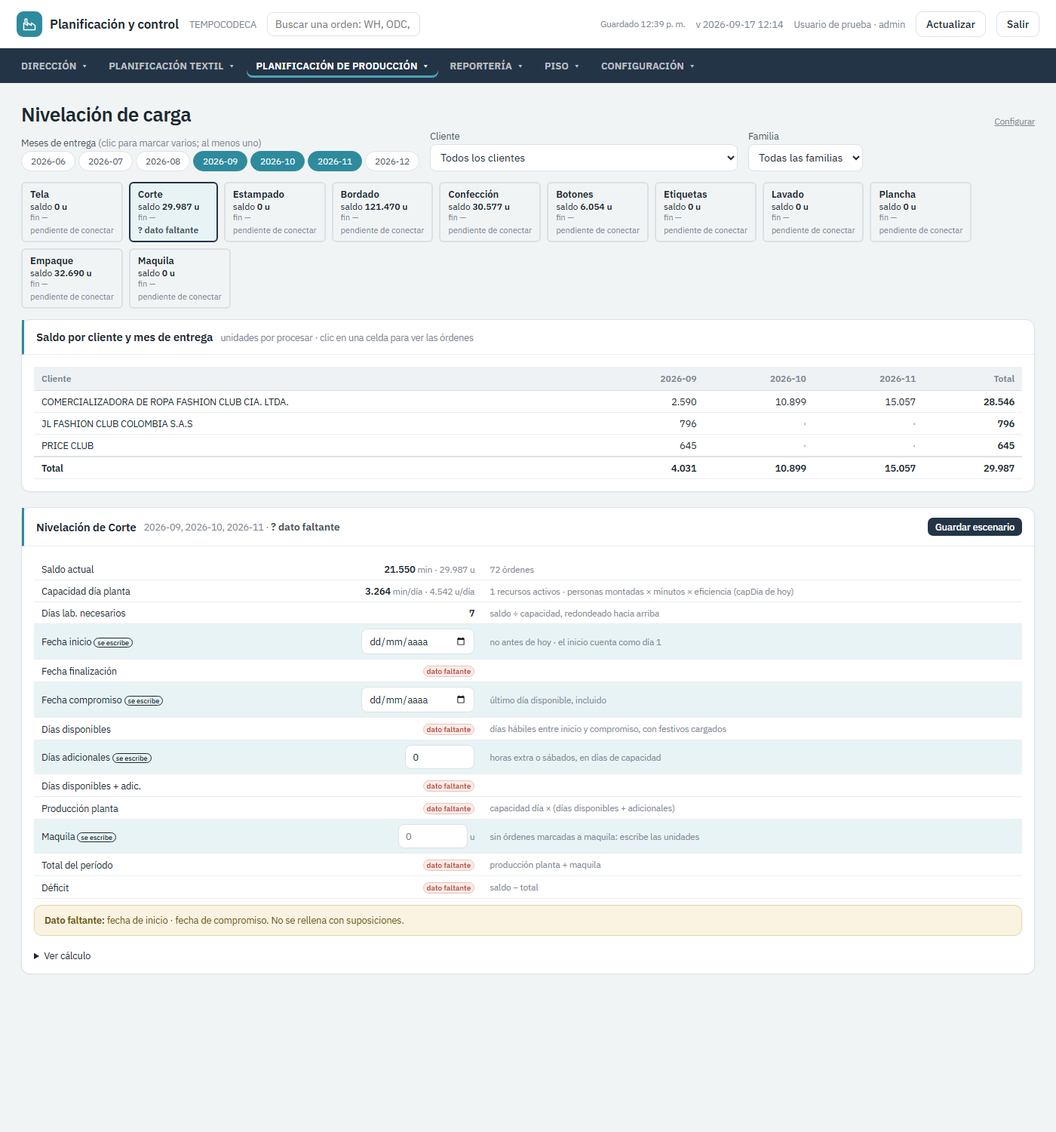
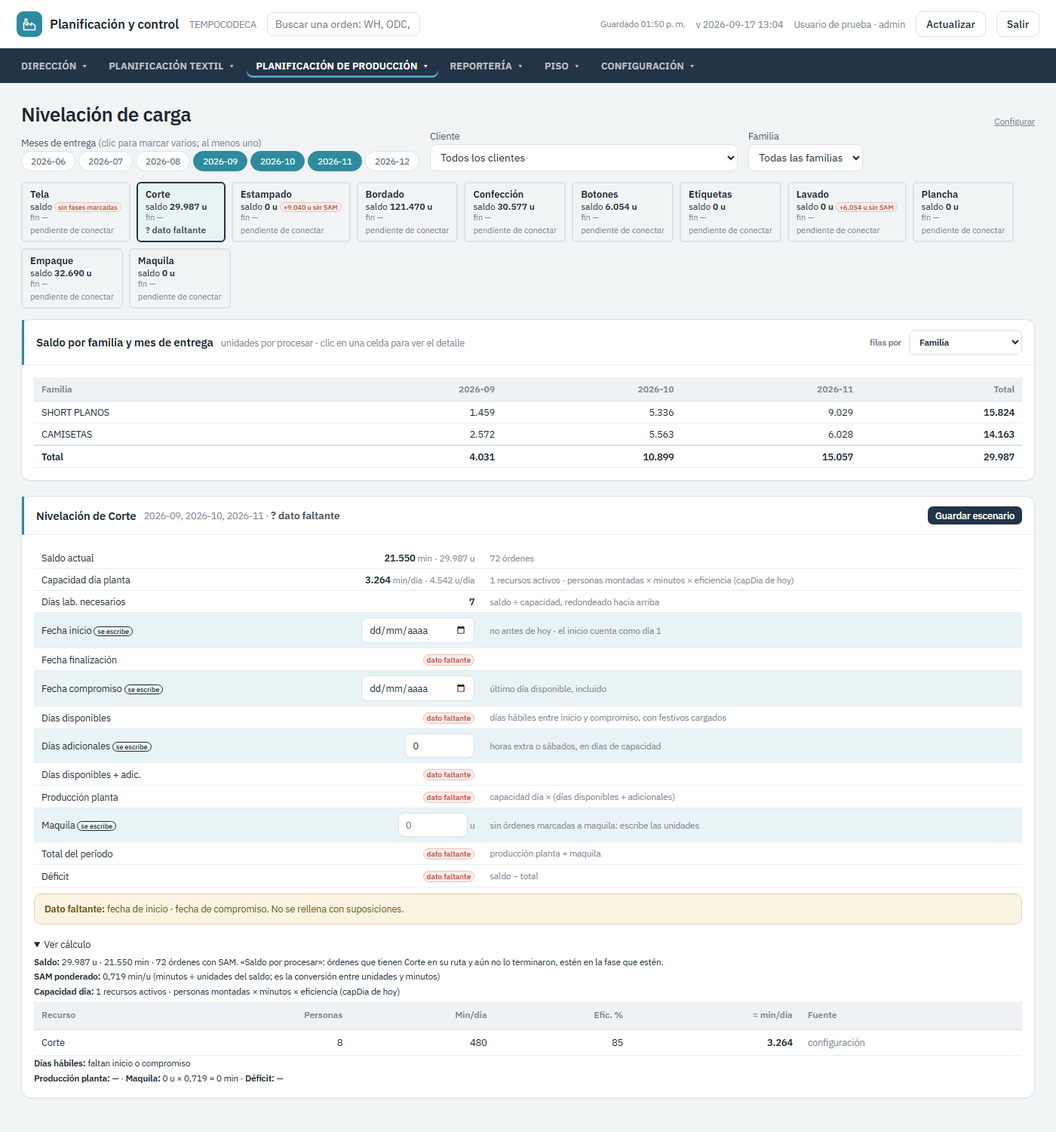
Nivelación · las WH salen de la pantalla: detalle hasta tipo de producto + «ver órdenes» a Carga general (Saldo por procesar en <área>)
saldoAreaNiv(area,meses,filtro) es la única fuente para la nivelación y para el detalle nuevo de Carga general
(CG.det.saldo), así el número de órdenes y unidades coincide exacto con la fila desde la que se llegó (prueba).
Encabezado con la selección aplicada y «← volver a la nivelación» (regresa con área, meses, filtros y celda);
aclara que es saldo por procesar, distinto del detalle por semana programada. «Qué no entra» resumido por familia y
tipo con «ver órdenes» (las órdenes exactas viajan por id). Tela y Maquila por el mismo bloque. Prueba: ninguna WH
en la pantalla de nivelación. Recuadros: «sin fases marcadas» (Tela) y «+N u sin SAM». Harness 2.343 checks, 0 errores.

diff --git a/index.html b/index.html
@@ -706,7 +706,7 @@ async function _save(){
 }
 
 /* ---------- versión cargada vs publicada: nunca mirar números de una copia vieja sin saberlo ---------- */
-const APP_BUILD='2026-09-17 13:04';
+const APP_BUILD='2026-09-17 13:52';
 function verBotonesAdmin(){const ok=puede('config');['btn-respaldo','btn-restaurar'].forEach(id=>{const b=document.getElementById(id);if(b)b.style.display=ok?'':'none'})}
 function verVersion(){const e=document.getElementById('version');if(e)e.textContent='v '+APP_BUILD}
 async function revisarVersion(){try{const r=await fetch(location.pathname+'?nocache='+Date.now(),{cache:'no-store'});if(!r.ok)return;const t=await r.text();const m=t.match(/APP_BUILD=\x27([^\x27]+)\x27/);if(!m)return;
@@ -6067,11 +6067,25 @@ function nivUIFiltro(){const cli=NIVUI.cliente,fam=NIVUI.familia;if(!cli&&!fam)r
   return o=>(!cli||String(o.cliente||'')===cli)&&(!fam||famDeOrden(o)===fam)}
 function nivUIOpciones(k){const set=new Set();S.ordenes.filter(abiertaDe).forEach(o=>set.add(k==='cliente'?String(o.cliente||'(sin cliente)'):famDeOrden(o)));return [...set].sort((a,b)=>a.localeCompare(b,'es'))}
 /* --- el saldo de un área: el MISMO saldoProceso del Paso 1 (con filtro); maquila = lo marcado a maquila --- */
-function nivUISaldo(areaId,meses){const f=nivUIFiltro();const a=nivUIArea(areaId);if(!a)return null;
+/* el saldo de un área con un filtro cualquiera: la nivelación (con sus filtros de pantalla) y Carga general (con la
+   selección que llega por «ver órdenes») llaman EXACTAMENTE a esta función, así que listan lo mismo que se sumó */
+function saldoAreaNiv(areaId,meses,f){const a=nivUIArea(areaId);if(!a)return null;
   if(a.tipo==='maquila'){const s=saldoProceso('modulos',meses,f);if(!s)return null;
     const ords=S.ordenes.filter(o=>abiertaDe(o)&&(!f||f(o))&&(!meses||!meses.length||meses.includes(mesEntregaNiv(o)))&&((o.recursoFijo||{}).modulos==='maquila')&&(o.ruta||[]).some(x=>x.centro==='modulos')&&!pasoHecho(o,'modulos'));
     return {proc:'maquila',ordenes:ords,unid:s.maquila,min:s.minMaquila,sinSAM:[],unidSinSAM:0,maquila:0,minMaquila:0}}
   return saldoProceso(areaId,meses,f)}
+function nivUISaldo(areaId,meses){return saldoAreaNiv(areaId,meses,nivUIFiltro())}
+/* el filtro que arma una selección (cliente, familia, tipo de producto) — el mismo para las dos pantallas */
+function filtroSelNiv(sel){sel=sel||{};const cli=sel.cli||'',fam=sel.fam||'',hija=sel.hija||'';if(!cli&&!fam&&!hija)return null;
+  return o=>(!cli||String(o.cliente||'(sin cliente)')===cli)&&(!fam||famDeOrden(o)===fam)&&(!hija||nivUIClaveFila(o,'hija')===hija)}
+/* «ver órdenes»: la nivelación no lista WH; manda la selección a Carga general y deja el camino de vuelta */
+function irSaldoCentro(sel){sel=sel||{};const a=nivUIArea(sel.area);if(!a)return;
+  const volver={meses:nivUIMeses().slice(),cliente:NIVUI.cliente,familia:NIVUI.familia,area:NIVUI.area,filaPor:NIVUI.filaPor,celda:NIVUI.celda?Object.assign({},NIVUI.celda):null,noEntra:!!NIVUI.noEntra};
+  CG.area='pro';CG.centro=(a.tipo==='centro')?a.id:'';CG.sem=null;
+  CG.det={saldo:true,area:a.id,meses:(sel.meses||[]).slice(),fam:sel.fam||'',hija:sel.hija||'',cli:sel.cli||'',ids:sel.ids||null,txt:sel.txt||'',volver};
+  ir('produccion');setTimeout(()=>{const e=document.getElementById('cg-saldo');if(e&&e.scrollIntoView)e.scrollIntoView({block:'start'})},0)}
+function nivUIVolver(){const v=CG.det&&CG.det.volver;if(v){NIVUI.meses=v.meses;NIVUI.cliente=v.cliente;NIVUI.familia=v.familia;NIVUI.area=v.area;NIVUI.filaPor=v.filaPor;NIVUI.celda=v.celda;NIVUI.noEntra=v.noEntra}
+  CG.det=null;ir('nivelacion')}
 /* --- capacidad diaria del área, con el detalle que la produce (personas, minutos, eficiencia) --- */
 function nivUICapacidad(areaId){const a=nivUIArea(areaId);if(!a)return {cap:null,detalle:[],nota:'área desconocida'};
   if(a.tipo==='tela'){const t=capTelaReal();const plan=nivParam('telaPlan','');const cap=(plan===''||plan==null)?(t.suficiente?t.prom:null):+plan;
@@ -6109,9 +6123,11 @@ function nivUICalcular(areaId){const a=nivUIArea(areaId);if(!a)return null;const
   const total=(planta==null)?null:planta+(maqMin==null?0:maqMin);
   const deficit=(saldo==null||total==null)?null:Math.max(0,saldo-total);
   const sobra=(saldo==null||total==null)?null:Math.max(0,total-saldo);
-  const estado=(deficit==null)?'faltante':(deficit>0?'deficit':((c.holgura!=null&&c.holgura<=prm('colchonDias',3))?'riesgo':'ok'));
+  const sinFases=a.tipo==='tela'&&!fasesDeProcNivel('tela').length;
+  const estado=(deficit==null||sinFases)?'faltante':(deficit>0?'deficit':((c.holgura!=null&&c.holgura<=prm('colchonDias',3))?'riesgo':'ok'));
   return {area:a,meses,saldo:s,sam,enMin,cap,esc:e,calc:c,adic,diasTot,plantaMin:planta,maqU,maqMin,totalMin:total,deficitMin:deficit,sobraMin:sobra,estado,
-    falta:c.falta.slice().concat(sam==null&&enMin&&s&&s.unid>0?['SAM ponderado (saldo sin minutos)']:[])}}
+    falta:c.falta.slice().concat(sam==null&&enMin&&s&&s.unid>0?['SAM ponderado (saldo sin minutos)']:[]).concat(a.tipo==='tela'&&!fasesDeProcNivel('tela').length?['fases de Tela en la tabla 1 (columna «nivelación» vacía: el saldo de tela no se puede contar)']:[]),
+    sinFasesTela:a.tipo==='tela'&&!fasesDeProcNivel('tela').length}}
 /* --- lo que NO entra: las órdenes que quedan fuera del total del período, de la más lejana a la más cercana --- */
 function nivUINoEntra(r){if(!r||r.deficitMin==null||r.deficitMin<=0||!r.saldo)return [];
   const c=r.area.tipo==='centro'?r.area.id:'modulos';
@@ -6140,7 +6156,7 @@ function nivUIFiltrosHTML(){const sel=(k,lab)=>`<div><label>${lab}</label><selec
   return sel('cliente','Cliente')+sel('familia','Familia')}
 function nivUIRecuadrosHTML(){const meses=nivUIMeses();
   return `<div style="display:flex;flex-wrap:wrap;gap:8px;margin:10px 0 14px">${nivUIAreas().map(a=>{const r=nivUICalcular(a.id);const on=NIVUI.area===a.id;
-    const saldo=r&&r.saldo?(r.enMin?num(aUnid(r.saldo.min,r.sam)||0,0)+' u':num(r.saldo.unid,0)+' u'):'—';
+    const saldo=r&&r.saldo?((r.sinFasesTela)?'<span class="tag t-alerta" style="font-size:9px;padding:0 4px">sin fases marcadas</span>':(r.enMin?num(aUnid(r.saldo.min,r.sam)||0,0)+' u':num(r.saldo.unid,0)+' u')+(r.saldo.sinSAM&&r.saldo.sinSAM.length?' <span class="tag t-alerta" style="font-size:9px;padding:0 4px" title="'+r.saldo.sinSAM.length+' órdenes sin SAM no suman">+'+num(r.saldo.unidSinSAM,0)+' u sin SAM</span>':'')):'—';
     const fin=(NIVUI_CONECTADAS.includes(a.id)&&r&&r.calc.fin)?fmtDia(r.calc.fin):'—';
     return `<div onclick="NIVUI.area='${a.id}';NIVUI.celda=null;NIVUI.noEntra=false;render()" style="cursor:pointer;border:2px solid ${on?'var(--t-primary,var(--ink))':'var(--rule)'};border-radius:6px;padding:6px 10px;min-width:118px;background:${on?'var(--t-accent-soft,var(--field))':'var(--card)'}">
       <div style="font-weight:600;font-size:13px">${esc(a.n)}</div>
@@ -6165,16 +6181,17 @@ function nivUITablaHTML(r){if(!r||!r.saldo)return '';const meses=r.meses;const u
    ${filas.map(f=>`<tr><td>${esc(f)}</td>${meses.map(mes=>celda(f,mes,m[f][mes]||0)).join('')}<td class="num"><b>${num(meses.reduce((x,mes)=>x+(m[f][mes]||0),0),0)}</b></td></tr>`).join('')||'<tr><td colspan="99" class="mut">Sin saldo con estos meses y filtros.</td></tr>'}
    ${filas.length?`<tr style="border-top:2px solid var(--rule);font-weight:600"><td>Total</td>${meses.map(mes=>`<td class="num">${num(tot[mes]||0,0)}</td>`).join('')}<td class="num">${num(meses.reduce((x,mes)=>x+(tot[mes]||0),0),0)}</td></tr>`:''}
   </tbody></table></div>${nivUIDetalleCeldaHTML(r,ords,uDe)}</div></div>`}
-/* detalle de una celda: tipo de producto (con unidades) → órdenes (foto, WH, fase) */
+/* detalle de una celda: tipo de producto con unidades y número de órdenes, y «ver órdenes» (a Carga general).
+   La nivelación se usa para decidir con familias y unidades: aquí NO se listan órdenes una por una. */
+function nivUISelDe(r,cd,hija){const por=cd?cd.por:null;const sel={area:r.area.id,meses:cd?[cd.mes]:r.meses.slice(),cli:NIVUI.cliente||'',fam:NIVUI.familia||'',hija:hija||''};
+  if(cd){if(por==='familia')sel.fam=cd.fila;else if(por==='hija')sel.hija=cd.fila;else if(por==='cliente')sel.cli=cd.fila}return sel}
+function nivUIVerOrdenesHTML(sel){return `<a style="cursor:pointer;white-space:nowrap" onclick="irSaldoCentro(${esc(JSON.stringify(sel)).replace(/'/g,'&#39;')})">ver órdenes →</a>`}
 function nivUIDetalleCeldaHTML(r,ords,uDe){const cd=NIVUI.celda;if(!cd||cd.por!==(NIVUI.filaPor||'familia'))return '';
   const l=ords.filter(o=>nivUIClaveFila(o,cd.por)===cd.fila&&mesEntregaNiv(o)===cd.mes);if(!l.length)return '';
   const porHija={};l.forEach(o=>{const h=nivUIClaveFila(o,'hija');(porHija[h]=porHija[h]||[]).push(o)});
   const hijas=Object.keys(porHija).sort((a,b)=>porHija[b].reduce((x,o)=>x+uDe(o),0)-porHija[a].reduce((x,o)=>x+uDe(o),0));
-  const fila=o=>`<tr><td>${whCell(o)}</td><td>${esc(o.cliente||'')}</td><td>${esc((C(o.color)||{}).n||'')}</td><td class="num">${num(uDe(o),0)}</td><td>${fechaMetaDe(o)?fmtDia(fechaMetaDe(o)):'<span class="mut">sin fecha</span>'}</td></tr>`;
-  return `<div style="margin-top:10px"><b>${esc(cd.fila)} · ${esc(cd.mes)}</b> <span class="mut">${num(l.reduce((x,o)=>x+uDe(o),0),0)} u · ${l.length} órdenes · ${hijas.length} tipos de producto</span>
-   <table style="margin-top:6px"><thead><tr><th>Tipo de producto</th><th class="num">Unidades</th><th class="num">Órdenes</th></tr></thead><tbody>${hijas.map(h=>`<tr><td>${esc(h)}</td><td class="num"><b>${num(porHija[h].reduce((x,o)=>x+uDe(o),0),0)}</b></td><td class="num">${porHija[h].length}</td></tr>`).join('')}</tbody></table>
-   ${hijas.map(h=>`<details style="margin-top:8px" ${hijas.length===1?'open':''}><summary style="cursor:pointer;font-size:var(--fs-s)"><b>${esc(h)}</b> · ${num(porHija[h].reduce((x,o)=>x+uDe(o),0),0)} u · ${porHija[h].length} órdenes</summary>
-    <div style="margin:6px 0 0 12px">${grpSelHTML(NIVUI_LISTA,true)}<table style="margin-top:6px"><thead><tr><th>Orden</th><th>Cliente</th><th>Color</th><th class="num">Por procesar</th><th>Entrega</th></tr></thead><tbody>${filasGRP(NIVUI_LISTA,porHija[h],fila,5)}</tbody></table></div></details>`).join('')}</div>`}
+  return `<div style="margin-top:10px"><b>${esc(cd.fila)} · ${esc(cd.mes)}</b> <span class="mut">${num(l.reduce((x,o)=>x+uDe(o),0),0)} u · ${l.length} órdenes · ${hijas.length} tipos de producto</span> ${nivUIVerOrdenesHTML(nivUISelDe(r,cd,''))}
+   <table style="margin-top:6px"><thead><tr><th>Tipo de producto</th><th class="num">Unidades</th><th class="num">Órdenes</th><th></th></tr></thead><tbody>${hijas.map(h=>`<tr><td>${esc(h)}</td><td class="num"><b>${num(porHija[h].reduce((x,o)=>x+uDe(o),0),0)}</b></td><td class="num">${porHija[h].length}</td><td>${nivUIVerOrdenesHTML(nivUISelDe(r,cd,h))}</td></tr>`).join('')}</tbody></table></div>`}
 /* el cuadrito: catorce filas, en este orden, con estos nombres; solo las «se escribe» son editables */
 function nivUICuadritoHTML(r){if(!r)return '';const c=r.calc,e=r.esc,ok=puede('programa'),id=r.area.id;
   const ro=(n,v,nota)=>`<tr><td>${n}</td><td class="num">${v}</td><td class="mut" style="font-size:var(--fs-xs)">${nota||''}</td></tr>`;
@@ -6204,10 +6221,11 @@ function nivUICuadritoHTML(r){if(!r)return '';const c=r.calc,e=r.esc,ok=puede('p
    ${nivUINoEntraHTML(r)}
    <details style="margin-top:8px" ${NIVUI.verCalc?'open':''} ontoggle="NIVUI.verCalc=this.open"><summary style="cursor:pointer;font-size:var(--fs-s)">Ver cálculo</summary>${nivUICalculoHTML(r)}</details>
   </div></div>`}
-function nivUINoEntraHTML(r){if(!NIVUI.noEntra||!(r.deficitMin>0))return '';const l=nivUINoEntra(r);const c=r.area.tipo==='centro'?r.area.id:'modulos';
-  const fila=x=>`<tr><td>${whCell(x.o)}</td><td>${esc(x.o.cliente||'')}</td><td>${esc(nombreCat(K(x.o.cat)))}</td><td class="num">${num(x.u,0)}</td><td>${fechaMetaDe(x.o)?fmtDia(fechaMetaDe(x.o)):'—'}</td></tr>`;
-  return `<div style="margin-top:10px"><b>Qué no entra</b> <span class="mut">las ${l.length} órdenes de entrega más lejana que se quedan fuera del total del período (${r.enMin?num(r.deficitMin,0)+' min':num(r.deficitMin,0)+' u'})</span> ${grpSelHTML(NIVUI_LISTA+'ne',true)}
-   <table style="margin-top:6px"><thead><tr><th>Orden</th><th>Cliente</th><th>Producto</th><th class="num">Por procesar</th><th>Entrega</th></tr></thead><tbody>${filasGRP(NIVUI_LISTA+'ne',l,fila,5,x=>x.o,x=>x.u)}</tbody></table></div>`}
+function nivUINoEntraHTML(r){if(!NIVUI.noEntra||!(r.deficitMin>0))return '';const l=nivUINoEntra(r);
+  const g={};l.forEach(x=>{const f=famDeOrden(x.o),h=nivUIClaveFila(x.o,'hija');const k=f+'|'+h;g[k]=g[k]||{fam:f,hija:h,u:0,n:0,ids:[]};g[k].u+=x.u;g[k].n++;g[k].ids.push(x.o.id)});
+  const filas=Object.values(g).sort((a,b)=>b.u-a.u);
+  return `<div style="margin-top:10px"><b>Qué no entra</b> <span class="mut">las ${l.length} órdenes de entrega más lejana que se quedan fuera del total del período (${r.enMin?num(r.deficitMin,0)+' min':num(r.deficitMin,0)+' u'}), por familia y tipo de producto</span> ${nivUIVerOrdenesHTML(Object.assign(nivUISelDe(r,null,''),{ids:l.map(x=>x.o.id),txt:'qué no entra'}))}
+   <table style="margin-top:6px"><thead><tr><th>Familia</th><th>Tipo de producto</th><th class="num">Unidades</th><th class="num">Órdenes</th><th></th></tr></thead><tbody>${filas.map(x=>`<tr><td>${esc(x.fam)}</td><td>${esc(x.hija)}</td><td class="num"><b>${num(x.u,0)}</b></td><td class="num">${x.n}</td><td>${nivUIVerOrdenesHTML(Object.assign(nivUISelDe(r,null,x.hija),{fam:x.fam,ids:x.ids,txt:'qué no entra'}))}</td></tr>`).join('')}</tbody></table></div>`}
 function nivUICalculoHTML(r){const c=r.calc;const nh=c.noHabiles||[];
   return `<div style="font-size:var(--fs-xs);line-height:1.7;margin-top:6px">
    <div><b>Saldo:</b> ${r.saldo?num(r.saldo.unid,0)+' u · '+num(r.saldo.min,0)+' min · '+r.saldo.ordenes.length+' órdenes con SAM':'—'}${r.saldo&&r.saldo.sinSAM.length?' · '+r.saldo.sinSAM.length+' órdenes sin SAM ('+num(r.saldo.unidSinSAM,0)+' u) NO suman':''}. «Saldo por procesar»: órdenes que tienen ${esc(r.area.n)} en su ruta y aún no lo terminaron, estén en la fase que estén.</div>
@@ -8014,10 +8032,23 @@ function vPro(el){
    </tbody></table></div></div></div>`:'';
   /* Bloque 3 · detalle de una celda */
   let bloque3='';
-  if(CG.det){const c=CG.det.c,w=CG.det.w,fin=dsum(w,6);const byOp={};S.ordenes.forEach(o=>byOp[o.op]=o);
+  if(CG.det&&CG.det.saldo){const d=CG.det;const a=nivUIArea(d.area)||{id:d.area,n:nCen(d.area),tipo:'centro'};
+    /* la MISMA función que sumó el cuadrito de la nivelación: saldoAreaNiv(área, meses, filtro) */
+    const sd=saldoAreaNiv(d.area,d.meses,filtroSelNiv(d))||{ordenes:[],sinSAM:[],unid:0,unidSinSAM:0};
+    let base=sd.ordenes.concat(sd.sinSAM||[]).filter((o,i,arr)=>arr.indexOf(o)===i);if(d.ids){const set=new Set(d.ids);base=base.filter(o=>set.has(o.id))}
+    const c=a.tipo==='centro'?a.id:'modulos';const uDe=o=>a.tipo==='tela'?(+o.cant||0):pendCentroUnid(o,c);
+    const dets=base.filter(o=>faseOkCG(o)&&(!CG.q||matchBusq(o,CG.q,'CG.q')));
+    const uTot=base.reduce((x,o)=>x+uDe(o),0);
+    const selTxt=[(d.meses||[]).join(', ')||'todos los meses',d.fam?'familia '+d.fam:'',d.hija?'tipo '+d.hija:'',d.cli?'cliente '+d.cli:'',d.txt||''].filter(Boolean).map(esc).join(' · ');
+    bloque3=`<div class="panel" id="cg-saldo"><h3>Saldo por procesar en ${esc(a.n)} <span class="note">${selTxt} · <b>${base.length}</b> órdenes · <b>${num(uTot,0)}</b> u${dets.length!==base.length?' · '+dets.length+' con el filtro de fases/buscador de esta pantalla':''}</span><span class="spacer"></span>${grpSelHTML('cg')}<button class="btn ghost sm" onclick="nivUIVolver()">← volver a la nivelación</button><button class="btn ghost sm" onclick="CG.det=null;render()">cerrar</button></h3>
+     <div class="body"><p class="mut" style="font-size:var(--fs-xs);margin:0 0 8px"><b>Saldo por procesar</b> = órdenes abiertas que tienen ${esc(a.n)} en su ruta y aún no lo terminaron, en los meses de entrega marcados${d.ids?' (solo las que la nivelación dejó fuera del período)':''}. Es la misma lista que sumó la nivelación. <b>Es distinto del detalle por semana programada</b> de esta pantalla (lo que el programa puso en el centro esa semana): los dos son correctos, miden cosas distintas.</p>
+     <div class="scroll" style="max-height:420px"><table><thead><tr><th>OP · fase</th><th>Cliente</th><th>Categoría</th><th>Color</th><th class="num">Por procesar</th><th>Entrega</th><th></th></tr></thead><tbody>
+     ${filasGRP('cg',dets,o=>`<tr><td style="white-space:nowrap">${whCell(o)}</td><td>${esc(o.cliente||'')}</td><td>${esc(nombreCat(K(o.cat)))}</td><td style="white-space:nowrap">${dotColor(o.color)}${esc((C(o.color)||{}).n||'')}</td><td class="num">${num(uDe(o),0)}</td><td>${fechaMetaDe(o)?fmtDia(fechaMetaDe(o)):'<span class="mut">sin fecha</span>'}</td><td><a style="cursor:pointer" onclick="irEstadoOrden('${o.id}')">ver dónde está →</a></td></tr>`,7)||'<tr><td colspan="7" class="mut">Sin órdenes.</td></tr>'}
+     </tbody></table></div></div></div>`}
+  else if(CG.det){const c=CG.det.c,w=CG.det.w,fin=dsum(w,6);const byOp={};S.ordenes.forEach(o=>byOp[o.op]=o);
     const ids=new Set((P?P.pro:[]).filter(x=>x.centro===c&&x.dia>=w&&x.dia<=fin).map(x=>(byOp[x.op]||{}).id).filter(Boolean));
     const dets=S.ordenes.filter(o=>ids.has(o.id)&&faseOkCG(o));
-    bloque3=`<div class="panel"><h3>${esc(nCen(c))} · semana del ${fmtDia(w)} <span class="note">${dets.length} órdenes</span><span class="spacer"></span>${grpSelHTML('cg')}<button class="btn ghost sm" onclick="CG.det=null;render()">cerrar</button></h3>
+    bloque3=`<div class="panel"><h3>${esc(nCen(c))} · semana del ${fmtDia(w)} <span class="note">${dets.length} órdenes · programadas en el centro esa semana (distinto del «saldo por procesar» de la nivelación)</span><span class="spacer"></span>${grpSelHTML('cg')}<button class="btn ghost sm" onclick="CG.det=null;render()">cerrar</button></h3>
      <div class="body"><div class="scroll" style="max-height:420px"><table><thead><tr><th>OP · fase</th><th>Cliente</th><th>Categoría</th><th>Color</th><th class="num">Prendas</th><th class="num">Min pend.</th><th></th></tr></thead><tbody>
      ${filasGRP('cg',dets,o=>`<tr><td style="white-space:nowrap">${whCell(o)}</td><td>${esc(o.cliente||'')}</td><td>${esc(nombreCat(K(o.cat)))}</td><td style="white-space:nowrap">${dotColor(o.color)}${esc((C(o.color)||{}).n||'')}</td><td class="num">${num(o.cant)}</td><td class="num">${num(minPendCentro(o,c))}</td><td><a style="cursor:pointer" onclick="irEstadoOrden('${o.id}')">ver dónde está →</a></td></tr>`,7)||'<tr><td colspan="7" class="mut">Sin órdenes.</td></tr>'}
      </tbody></table></div></div></div>`}

diff --git a/test/driver.js b/test/driver.js
@@ -124,7 +124,18 @@ async function __run(){try{LISTO=true;}catch(e){}try{__R.prevFuzz=localStorage._
     if(/niv2/.test(location.search)){nivUISet('corte','inicio',hoy());nivUISet('corte','compromiso',dsum(hoy(),20));nivUISet('corte','diasAdic',1);NIVUI.verCalc=true;NIVUI.noEntra=true;
       const r=nivUICalcular('corte');const cl=Object.keys((()=>{const m={};(r.saldo.ordenes||[]).forEach(o=>{m[String(o.cliente||'')]=1});return m})())[0];if(cl)NIVUI.celda={por:'familia',fila:famDeOrden(r.saldo.ordenes[0]),mes:'2026-10'}}
     if(/niv3/.test(location.search)){nivUISet('corte','inicio',hoy());nivUISet('corte','compromiso',dsum(hoy(),3));nivUISet('corte','diasAdic',0);NIVUI.noEntra=true;NIVUI.verCalc=false}
-    page='nivelacion';render();document.querySelectorAll('#p-nivelacion details').forEach(d=>{d.open=true});document.body.classList.add('captura');__R.done=true;return}
+    page='nivelacion';render();document.querySelectorAll('#p-nivelacion details').forEach(d=>{d.open=true});
+    if(/nivdiag/.test(location.search)){const meses=['2026-09','2026-10','2026-11'];const out={};nivUIAreas().forEach(ar=>{const sd=saldoAreaNiv(ar.id,meses,null)||{};const c=ar.tipo==='centro'?ar.id:null;
+      const enRuta=c?S.ordenes.filter(o=>abiertaDe(o)&&meses.includes(mesEntregaNiv(o))&&(o.ruta||[]).some(p=>p.centro===c)):[];const hechas=c?enRuta.filter(o=>pasoHecho(o,c)):[];
+      const porFase={};(ar.tipo==='tela'?S.ordenes.filter(o=>abiertaDe(o)&&meses.includes(mesEntregaNiv(o))):enRuta.filter(o=>!pasoHecho(o,c))).forEach(o=>{porFase[o.fase||'(sin)']=(porFase[o.fase||'(sin)']||0)+1});
+      out[ar.id]={unid:sd.unid,min:Math.round(sd.min||0),n:(sd.ordenes||[]).length,sinSAM:(sd.sinSAM||[]).length,uSinSAM:sd.unidSinSAM,enRuta:enRuta.length,hechas:hechas.length,porFase}});
+      {const ords=S.ordenes.filter(o=>abiertaDe(o)&&meses.includes(mesEntregaNiv(o)));const cg=cargaUnica('abiertas',{ordenes:ords}).centros;out.__cargaGeneral={};Object.keys(cg).forEach(c=>{out.__cargaGeneral[c]={pz:cg[c].pz,n:cg[c].n,min:Math.round(cg[c].total)}});
+       out.__maquilaFase=ords.filter(o=>/maquila/i.test(o.fase||'')).length;out.__sinModulosConEmpaque=ords.filter(o=>(o.ruta||[]).some(p=>p.centro==='empaque')&&!(o.ruta||[]).some(p=>p.centro==='modulos')).length;out.__bordadoSolo=ords.filter(o=>(o.ruta||[]).some(p=>p.centro==='bordado')&&!(o.ruta||[]).some(p=>['corte','modulos','empaque'].includes(p.centro))).length;out.__bordadoSoloU=ords.filter(o=>(o.ruta||[]).some(p=>p.centro==='bordado')&&!(o.ruta||[]).some(p=>['corte','modulos','empaque'].includes(p.centro))).reduce((x,o)=>x+pendCentroUnid(o,'bordado'),0);
+       out.__estampadoT=ords.filter(o=>(o.ruta||[]).some(p=>p.centro==='estampado')).map(o=>[(o.ruta.find(p=>p.centro==='estampado')||{}).t,o.tecnica?1:0,tecnicaT(o)]).slice(0,6);}
+      out.__fasesTela=fasesDeProcNivel('tela');out.__abiertas=S.ordenes.filter(o=>abiertaDe(o)&&meses.includes(mesEntregaNiv(o))).length;out.__rutasSample=S.ordenes.filter(o=>abiertaDe(o)&&meses.includes(mesEntregaNiv(o))).slice(0,400).map(o=>(o.ruta||[]).map(p=>p.centro).join('>')).reduce((m,k)=>{m[k]=(m[k]||0)+1;return m},{});
+      document.body.innerHTML='<pre id="diag">'+JSON.stringify(out,null,1)+'</pre>';__R.done=true;return}
+    if(/niv4/.test(location.search)){const r=nivUICalcular('corte');const cd=NIVUI.celda;irSaldoCentro(nivUISelDe(r,cd,'Short Cargo'))}
+    document.body.classList.add('captura');__R.done=true;return}
   __check('planTarea reconoce columnas',!!planT);
   __check('planTarea: 4.235 cabeceras (3.733 con WH + 502 sin WH) y 60.766 líneas de componentes',planT.cabeceras===4235&&planT.sinLanzar===502&&planT.lineasComp===60766,planT.cabeceras+' / '+planT.sinLanzar+' / '+planT.lineasComp);
   __check('planTarea: la fase decide: los 2 Estado OP cancel son Facturado con fecha pasada → fuera de rango por la fase; 5 sin fecha en bandeja (4 con WH + 1 sin WH); las que tienen Proyecto entran al plan sin fecha y no se liberan ni programan',planT.excluidas.cancel.length===0&&planT.excluidas.fueraRango.filter(x=>x.estadoOP==='cancel').length===2&&planT.sinFecha.length===5&&planT.ordenes.filter(o=>o.sinFechaEntrega).length===planT.sinFecha.filter(x=>x.entra).length&&planT.ordenes.filter(o=>o.sinFechaEntrega).every(o=>!o.fecha&&mesPlan(o)&&!liberada(o,'tela')&&!puedeLiberarA(o,'tela')),planT.excluidas.cancel.length+' / '+planT.sinFecha.length);
@@ -6182,6 +6193,10 @@ async function __run(){try{LISTO=true;}catch(e){}try{__R.prevFuzz=localStorage._
     __check("N3: un recuadro por área: Tela, los centros de producción configurados en orden de proceso, Maquila",areas.length===pro+2&&areas[0].id==="tela"&&areas[1].id==="corte"&&areas[areas.length-1].id==="maquila"&&areas.findIndex(a=>a.id==="modulos")>areas.findIndex(a=>a.id==="corte"),areas.map(a=>a.id).join(" → "));
     const h=document.getElementById("p-nivelacion").innerHTML;
     __check("N3: cada recuadro trae saldo, fecha final y estado con ícono",areas.every(a=>h.includes("NIVUI.area='"+a.id+"'"))&&(h.match(/saldo <b>/g)||[]).length===areas.length&&(h.match(/>fin /g)||[]).length===areas.length&&/[✓⚠✕?] (llega|riesgo|déficit|dato faltante)/.test(h));
+    /* lo que no suma se dice: sin fases marcadas (Tela) y sin SAM (Estampado) — nunca un cero que parece bueno */
+    {const rT=nivUICalcular("tela");const rE=nivUICalcular("estampado");
+     __check("N3: Tela sin fases marcadas en la tabla 1 es «dato faltante», no «0 u · llega»",fasesDeProcNivel("tela").length>0||(rT.sinFasesTela===true&&rT.estado==="faltante"&&/sin fases marcadas/.test(h)&&rT.falta.some(f=>/fases de Tela/.test(f))),JSON.stringify({fases:fasesDeProcNivel("tela").length,e:rT.estado}));
+     __check("N3: un área cuyas órdenes no tienen SAM lo dice en el recuadro (+N u sin SAM)",!(rE.saldo&&rE.saldo.sinSAM.length)||new RegExp("\\+"+num(rE.saldo.unidSinSAM,0).replace(/\./g,"\\.")+" u sin SAM").test(h),JSON.stringify(rE.saldo&&{n:rE.saldo.sinSAM.length,u:rE.saldo.unidSinSAM}));}
     NIVUI.area="modulos";render();const h2=document.getElementById("p-nivelacion").innerHTML;
     __check("N3: clic en un recuadro muestra SOLO esa área abajo (y las no conectadas lo dicen, sin cuadrito)",/Confección todavía no está conectada/.test(h2)&&!/Nivelación de Corte/.test(h2)&&(h2.match(/Saldo por familia y mes/g)||[]).length===1&&!/se escribe/.test(h2));
     NIVUI.area="corte";render();}
@@ -6192,9 +6207,22 @@ async function __run(){try{LISTO=true;}catch(e){}try{__R.prevFuzz=localStorage._
     const cel=h().match(/onclick="NIVUI.celda=\{por:'familia',fila:'([^']+)',mes:'([^']+)'\}/);
     __check("N4: hay celdas con saldo",!!cel,"sin celdas");
     if(cel){NIVUI.celda={por:"familia",fila:cel[1].replace(/&#39;/g,"'"),mes:cel[2]};render();
-     __check("N4: clic en una celda abre el detalle: primero tipos de producto con unidades, y adentro las órdenes con foto/WH/fase (whCell + filasGRP)",/tipos de producto<\/span>/.test(h())&&/<th>Tipo de producto<\/th><th class="num">Unidades<\/th>/.test(h())&&/<details[^>]*><summary[^>]*><b>/.test(h())&&/setNivelGRP\('nivui'/.test(h())&&/fase-mini|foto-mini|WH\//.test(h()));
-     /* las WH van en el último nivel: la primera tabla del detalle es de tipos de producto, no de órdenes */
-     __check("N4: las WH quedan en el último nivel, no en el primero",(()=>{const i=h().indexOf("tipos de producto</span>");const seg=h().slice(i,i+1500);const m=seg.match(/<tbody><tr><td>([^<]+)<\/td>/);return !!m&&!/^WH\/|^SIN WH/.test(m[1])})());
+     __check("N4: clic en una celda abre el detalle SOLO hasta tipo de producto: unidades, número de órdenes y «ver órdenes»",/tipos de producto<\/span>/.test(h())&&/<th>Tipo de producto<\/th><th class="num">Unidades<\/th><th class="num">Órdenes<\/th>/.test(h())&&(h().match(/irSaldoCentro\(/g)||[]).length>=2&&!/<details/.test(h().slice(h().indexOf("tipos de producto"),h().indexOf("Nivelación de Corte"))));
+     /* la nivelación NO lista WH en ningún punto */
+     const sinWH=html=>!/WH\/MO\/|SIN WH #|whCell|foto-mini|fase-mini/.test(html);
+     __check("N4: con la celda abierta no aparece ninguna WH en la pantalla de nivelación",sinWH(h()),(h().match(/WH\/MO\/[0-9]+/g)||[]).slice(0,3).join(","));
+     /* «ver órdenes» → Carga general: el detalle nuevo sale de saldoProceso y cuadra EXACTO con la fila */
+     {const m=h().match(/<tr><td>([^<]+)<\/td><td class="num"><b>([^<]+)<\/b><\/td><td class="num">(\d+)<\/td><td><a[^>]*onclick="irSaldoCentro\(([^"]+)\)"/);
+      __check("N4: cada fila de tipo de producto tiene su «ver órdenes»",!!m,"sin fila");
+      if(m){const sel=JSON.parse(m[4].replace(/&quot;/g,'"').replace(/&#39;/g,"'").replace(/&amp;/g,"&"));const uFila=+m[2].replace(/\./g,""),nFila=+m[3];
+       const bakNIV=JSON.stringify({meses:nivUIMeses(),cliente:NIVUI.cliente,familia:NIVUI.familia,area:NIVUI.area,filaPor:NIVUI.filaPor,celda:NIVUI.celda});
+       irSaldoCentro(sel);await __p(30);const hc=document.getElementById("p-produccion").innerHTML;
+       const cab=hc.match(/Saldo por procesar en ([^<]+) <span class="note">([^<]*)<b>(\d+)<\/b> órdenes · <b>([^<]+)<\/b> u/);
+       __check("N4→CG: abre Carga general en «Saldo por procesar en Corte» con la selección en el encabezado",page==="produccion"&&!!cab&&/Corte/.test(cab[1])&&new RegExp(sel.meses[0]).test(cab[2])&&new RegExp(esc(sel.hija)).test(cab[2]),cab?cab[0].slice(0,160):hc.slice(0,120));
+       __check("N4→CG: el número de órdenes y unidades del detalle coincide EXACTO con la fila de la nivelación",!!cab&&+cab[3]===nFila&&+cab[4].replace(/\./g,"")===uFila,JSON.stringify({cg:cab&&[cab[3],cab[4]],fila:[nFila,uFila]}));
+       __check("N4→CG: sale de saldoAreaNiv/saldoProceso y lo dice: saldo por procesar, distinto del detalle por semana",/saldoAreaNiv\(/.test(String(vPro))&&/Es distinto del detalle por semana programada/.test(hc)&&/volver a la nivelación/.test(hc)&&/whCell|WH\//.test(hc));
+       nivUIVolver();await __p(30);
+       __check("N4→CG: «← volver a la nivelación» regresa con área, meses, filtros y celda como estaban",page==="nivelacion"&&JSON.stringify({meses:nivUIMeses(),cliente:NIVUI.cliente,familia:NIVUI.familia,area:NIVUI.area,filaPor:NIVUI.filaPor,celda:NIVUI.celda})===bakNIV&&CG.det===null);}}
      /* cambiar el agrupamiento no cambia el total */
      const totalDe=()=>{const mm=h().match(/<td>Total<\/td>(?:<td class="num">[^<]*<\/td>)*<td class="num">([^<]+)<\/td>/);return mm?mm[1]:null};const tF=totalDe();
      NIVUI.filaPor="hija";NIVUI.celda=null;render();const tH=totalDe();NIVUI.filaPor="cliente";render();const tC=totalDe();
@@ -6206,7 +6234,7 @@ async function __run(){try{LISTO=true;}catch(e){}try{__R.prevFuzz=localStorage._
     __check("N4: el cuadrito tiene las trece filas, con esos nombres y en ese orden",idx.every(i=>i>=0)&&idx.every((v,i)=>i===0||v>idx[i-1]),filas.join(" | "));
     __check("N4: solo las cuatro filas «se escribe» tienen entrada, con fondo distinto",(h().match(/se escribe<\/span>/g)||[]).length===4&&(h().match(/onchange="nivUISet\(/g)||[]).length===4);
     __check("N4: hay «Ver cálculo» colapsado con minutos, SAM ponderado y festivos",/<details[^>]*><summary[^>]*>Ver cálculo/.test(h())&&/SAM ponderado/.test(h())&&/Días hábiles/.test(h()));
-    __check("N4: el saldo sale del mismo saldoProceso del Paso 1 y el cálculo de nivelar()",!!r&&r.saldo&&r.saldo.unid>0&&/saldoProceso\(/.test(String(nivUISaldo))&&/nivelar\(/.test(String(nivUICalcular)),JSON.stringify(r&&{u:r.saldo.unid,min:r.saldo.min}));
+    __check("N4: el saldo sale del mismo saldoProceso del Paso 1 y el cálculo de nivelar()",!!r&&r.saldo&&r.saldo.unid>0&&/saldoAreaNiv\(/.test(String(nivUISaldo))&&/saldoProceso\(/.test(String(saldoAreaNiv))&&/nivelar\(/.test(String(nivUICalcular)),JSON.stringify(r&&{u:r.saldo.unid,min:r.saldo.min}));
     __R.nivUI={saldo:r&&{u:r.saldo.unid,min:r.saldo.min,ordenes:r.saldo.ordenes.length,sinSAM:r.saldo.sinSAM.length,uSinSAM:r.saldo.unidSinSAM},cap:r&&r.cap.cap,capDet:r&&r.cap.detalle,meses:nivUIMeses()};}
    /* N5 · coherencia: saldo de Corte del cuadrito vs Carga general (misma base, mismos meses) */
    {const meses=nivUIMeses();const r=nivUICalcular("corte");
@@ -6241,7 +6269,11 @@ async function __run(){try{LISTO=true;}catch(e){}try{__R.prevFuzz=localStorage._
     nivUISet("corte","inicio",hoy());nivUISet("corte","compromiso",dsum(hoy(),2));nivUISet("corte","diasAdic",0);nivUISet("corte","maquilaU",0);
     const r=nivUICalcular("corte");
     if(r.deficitMin>0){NIVUI.noEntra=true;render();const h=document.getElementById("p-nivelacion").innerHTML;const l=nivUINoEntra(r);
-     __check("N7: con déficit, clic muestra «qué no entra» con foto/WH, de la entrega más lejana hacia atrás",/Qué no entra/.test(h)&&l.length>=1&&l.reduce((a,x)=>a+x.min,0)>=r.deficitMin&&(l.length<2||String(fechaMetaDe(l[0].o))>=String(fechaMetaDe(l[l.length-1].o))),l.length+" órdenes");}
+     __check("N7: con déficit, «qué no entra» es un resumen por familia y tipo de producto (unidades y órdenes), sin WH",/Qué no entra/.test(h)&&/<th>Familia<\/th><th>Tipo de producto<\/th>/.test(h)&&!/WH\/MO\/|SIN WH #|whCell|foto-mini/.test(h)&&l.length>=1&&l.reduce((a,x)=>a+x.min,0)>=r.deficitMin,l.length+" órdenes");
+     {const m=h.match(/<tr><td>([^<]+)<\/td><td>([^<]+)<\/td><td class="num"><b>([^<]+)<\/b><\/td><td class="num">(\d+)<\/td><td><a[^>]*onclick="irSaldoCentro\(([^"]+)\)"/);
+      if(m){const sel=JSON.parse(m[5].replace(/&quot;/g,'"').replace(/&#39;/g,"'").replace(/&amp;/g,"&"));irSaldoCentro(sel);await __p(30);const hc=document.getElementById("p-produccion").innerHTML;const cab=hc.match(/<b>(\d+)<\/b> órdenes · <b>([^<]+)<\/b> u/);
+       __check("N7→CG: «ver órdenes» de qué no entra lista exactamente esas órdenes (mismo número y unidades)",!!cab&&+cab[1]===+m[4]&&+cab[2].replace(/\./g,"")===+m[3].replace(/\./g,"")&&/qué no entra/.test(hc),JSON.stringify({cg:cab&&[cab[1],cab[2]],fila:[m[4],m[3]]}));nivUIVolver();await __p(30);}
+      else __check("N7→CG: hay «ver órdenes» en el resumen de qué no entra",false,"sin fila");}}
     else __check("N7: con déficit, clic muestra «qué no entra»",false,"no hubo déficit con capacidad 0: "+JSON.stringify({def:r.deficitMin,cap:r.calc.capDia,saldo:r.saldo&&r.saldo.min}));
     recsC.forEach((r,i)=>{r.pers=bakPers[i]});NIVUI.noEntra=false;nivUIDescartar("corte");}
    window.alert=al;PERFIL=adminP;NIVUI={meses:null,cliente:"",familia:"",area:"corte",celda:null,filaPor:"familia",esc:{},verCalc:false,noEntra:false};page="ordenes";render();

diff --git a/NIVELACION_PANTALLA_CORTE.md b/NIVELACION_PANTALLA_CORTE.md
@@ -8,7 +8,7 @@ al elegirlas se ve la tabla cliente × mes y un aviso, sin cuadrito.
 Capturas (Chrome sin cabeza sobre el simulador con el volcado real, 1.400 px de ancho):
 `capturas/nivelacion_corte_1.png` (tres meses marcados, recuadros de área, Corte sin fechas → dato faltante),
 `capturas/nivelacion_corte_2.png` (tabla por familia con la celda SHORT PLANOS · 2026-10 abierta: tipos de producto → órdenes; escenario sin guardar; «Ver cálculo» abierto),
-`capturas/nivelacion_corte_3.png` (déficit y «qué no entra»).
+`capturas/nivelacion_corte_3.png` (déficit y «qué no entra»), `capturas/nivelacion_corte_4_carga_general.png` (a dónde lleva «ver órdenes»).
 
 ## Antes: órdenes de demostración (punto 1)
 
@@ -34,11 +34,13 @@ Capturas (Chrome sin cabeza sobre el simulador con el volcado real, 1.400 px de 
   Etiquetas · Lavado · Plancha · Empaque · Maquila (los sub-centros de Terminados también son centros configurados: si
   no deben aparecer, es una decisión de configuración, no de código). Cada uno: saldo, fecha final y estado con ícono,
   color y texto (✓ llega · ⚠ riesgo, holgura ≤ `colchonDias` · ✕ déficit · ? dato faltante). Clic → abajo solo esa área.
-- **2.4a (cambiado a pedido, mismo día)** Tabla **familia × mes de entrega** (unidades por procesar): para nivelar se mira el tipo de
+- **2.4a (cambiado a pedido, mismo día; y luego SIN WH — ver `NIVELACION_ENLACE_VER_ORDENES.md`)** Tabla **familia × mes de entrega** (unidades por procesar): para nivelar se mira el tipo de
   producto, no las órdenes una por una. Filas ordenadas por saldo, totales de fila y columna. Selector «filas por»: **Familia**
   (por defecto) · Tipo de producto (categoría hija) · Cliente — cambia solo el agrupamiento, no el cálculo (probado: mismo total).
-  Clic en una celda → debajo, ESA familia y ese mes: **primero por tipo de producto con sus unidades**, y adentro las órdenes con
-  foto/WH/fase (`filasGRP('nivui')` + `whCell`, agrupador común); las WH quedan en el último nivel (probado). Título: «Saldo por
+  Clic en una celda → debajo, ESA familia y ese mes: **tipo de producto con unidades y número de órdenes** y un enlace **«ver
+  órdenes»** que abre Carga general → «Saldo por procesar en <área>» con la selección aplicada (`irSaldoCentro`, misma
+  función `saldoAreaNiv`/`saldoProceso`; «← volver a la nivelación» regresa con todo como estaba). **La nivelación no lista
+  ninguna WH** (probado). «Qué no entra» también va resumido por familia y tipo, con «ver órdenes» (las órdenes exactas viajan por id). Título: «Saldo por
   familia y mes de entrega» (o tipo de producto / cliente según el selector). Aplica a todas las áreas.
 - **2.4b** Cuadrito con las trece filas, en ese orden y con esos nombres. Solo **Fecha inicio, Fecha compromiso, Días
   adicionales y Maquila** se escriben (fondo distinto, etiqueta «se escribe»); lo demás es solo lectura. Cambiar un valor

diff --git a/CLAUDE.md b/CLAUDE.md
@@ -839,7 +839,9 @@ como chips de selección múltiple (`nivUIMeses`/`nivUITogMes`, al menos uno), f
 recuadros por área desde los centros configurados (`nivUIAreas`: Tela + centros `pro` en `ordenPaso` + Maquila) con saldo,
 fin y estado (`nivUIEstadoHTML`: ✓ llega / ⚠ riesgo (holgura ≤ `colchonDias`) / ✕ déficit / ? dato faltante); clic → solo
 esa área: tabla FAMILIA × mes (`nivUITablaHTML`; `NIVUI.filaPor` = familia | hija | cliente solo cambia las filas; celda →
-`nivUIDetalleCeldaHTML`: tipos de producto con unidades y adentro las órdenes con `filasGRP`+`whCell`) y el cuadrito de trece filas
+`nivUIDetalleCeldaHTML`: tipos de producto con unidades y órdenes + «ver órdenes»; **la nivelación NO lista WH**: `irSaldoCentro(sel)` abre
+Carga general con `CG.det={saldo:true,area,meses,fam,hija,cli,ids?,volver}` = «Saldo por procesar en <área>», lista de la MISMA
+`saldoAreaNiv(area,meses,filtroSelNiv(sel))`, distinto del detalle por semana programada; `nivUIVolver()` regresa) y el cuadrito de trece filas
 (`nivUICuadritoHTML`; solo Fecha inicio, Fecha compromiso, Días adicionales y Maquila se escriben, `nivUISet`, en
 `NIVUI.esc` hasta «Guardar escenario» con motivo y permiso `programa`, `nivUIGuardar` → inicio/compromiso por `setNivFecha`
 del Paso 1 y `S.params.nivelacion.escenarios[area]`). **El motor no cambió**: `nivUICalcular` llama a `nivelar()` y deriva
